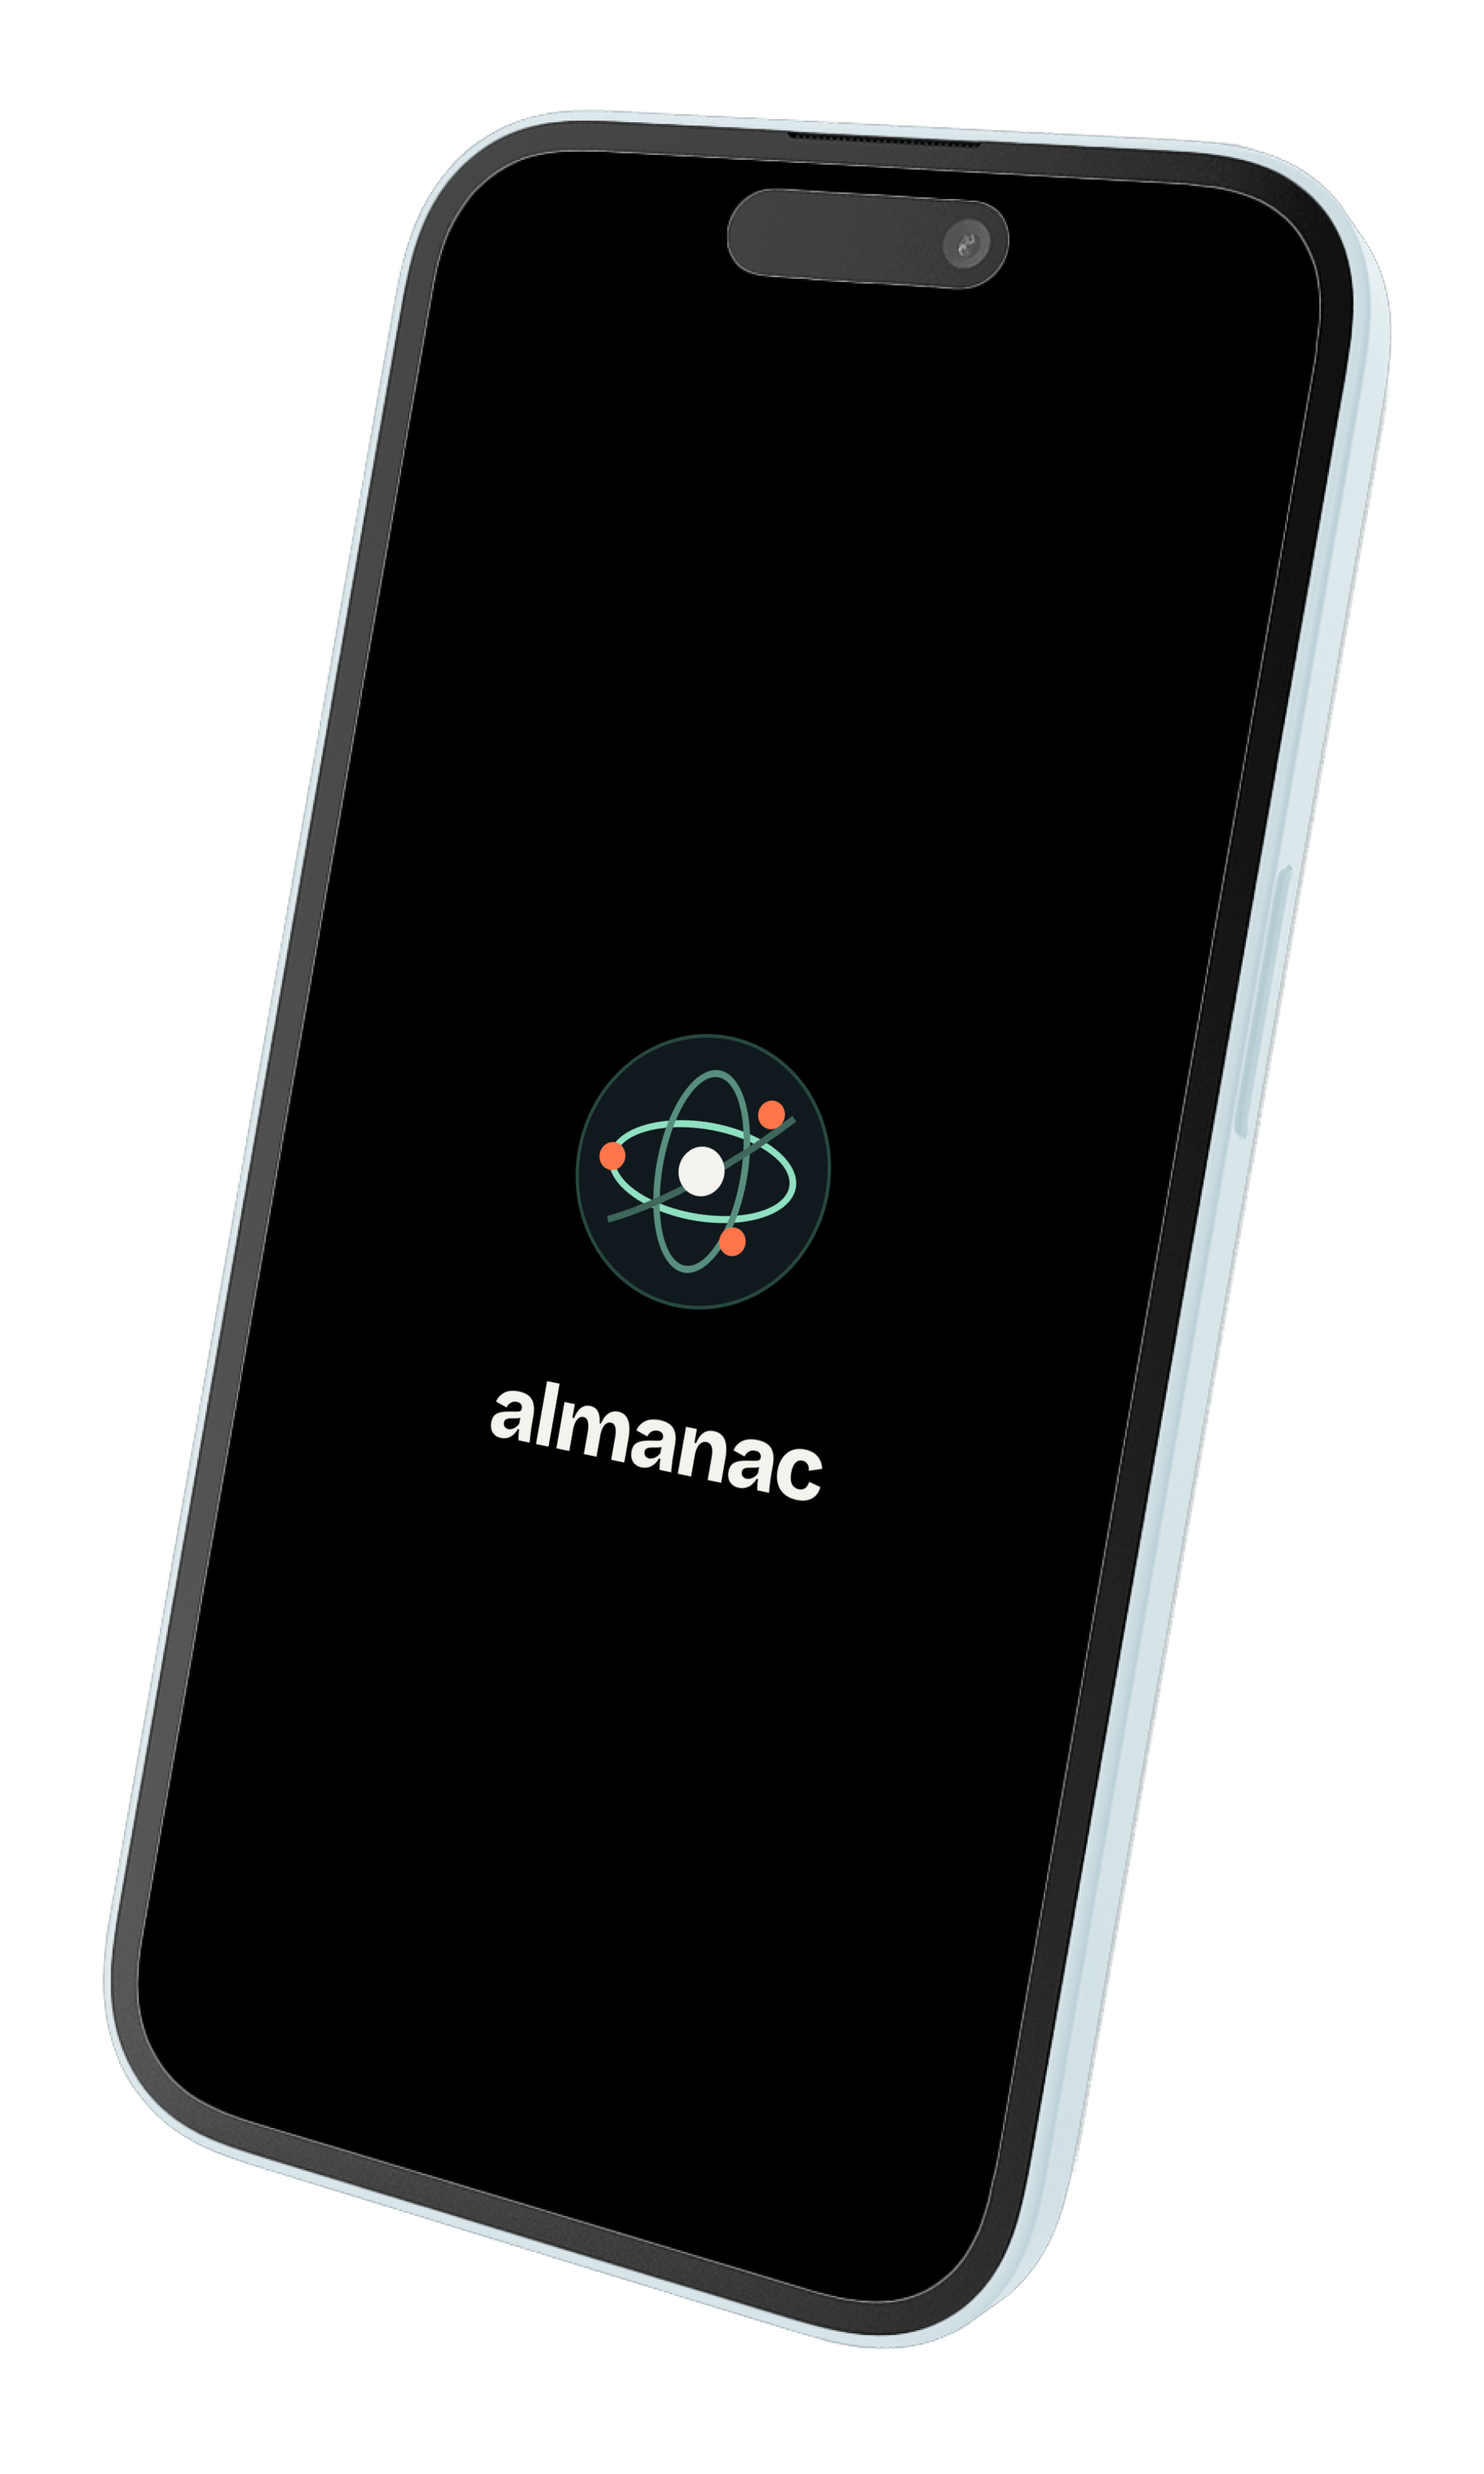
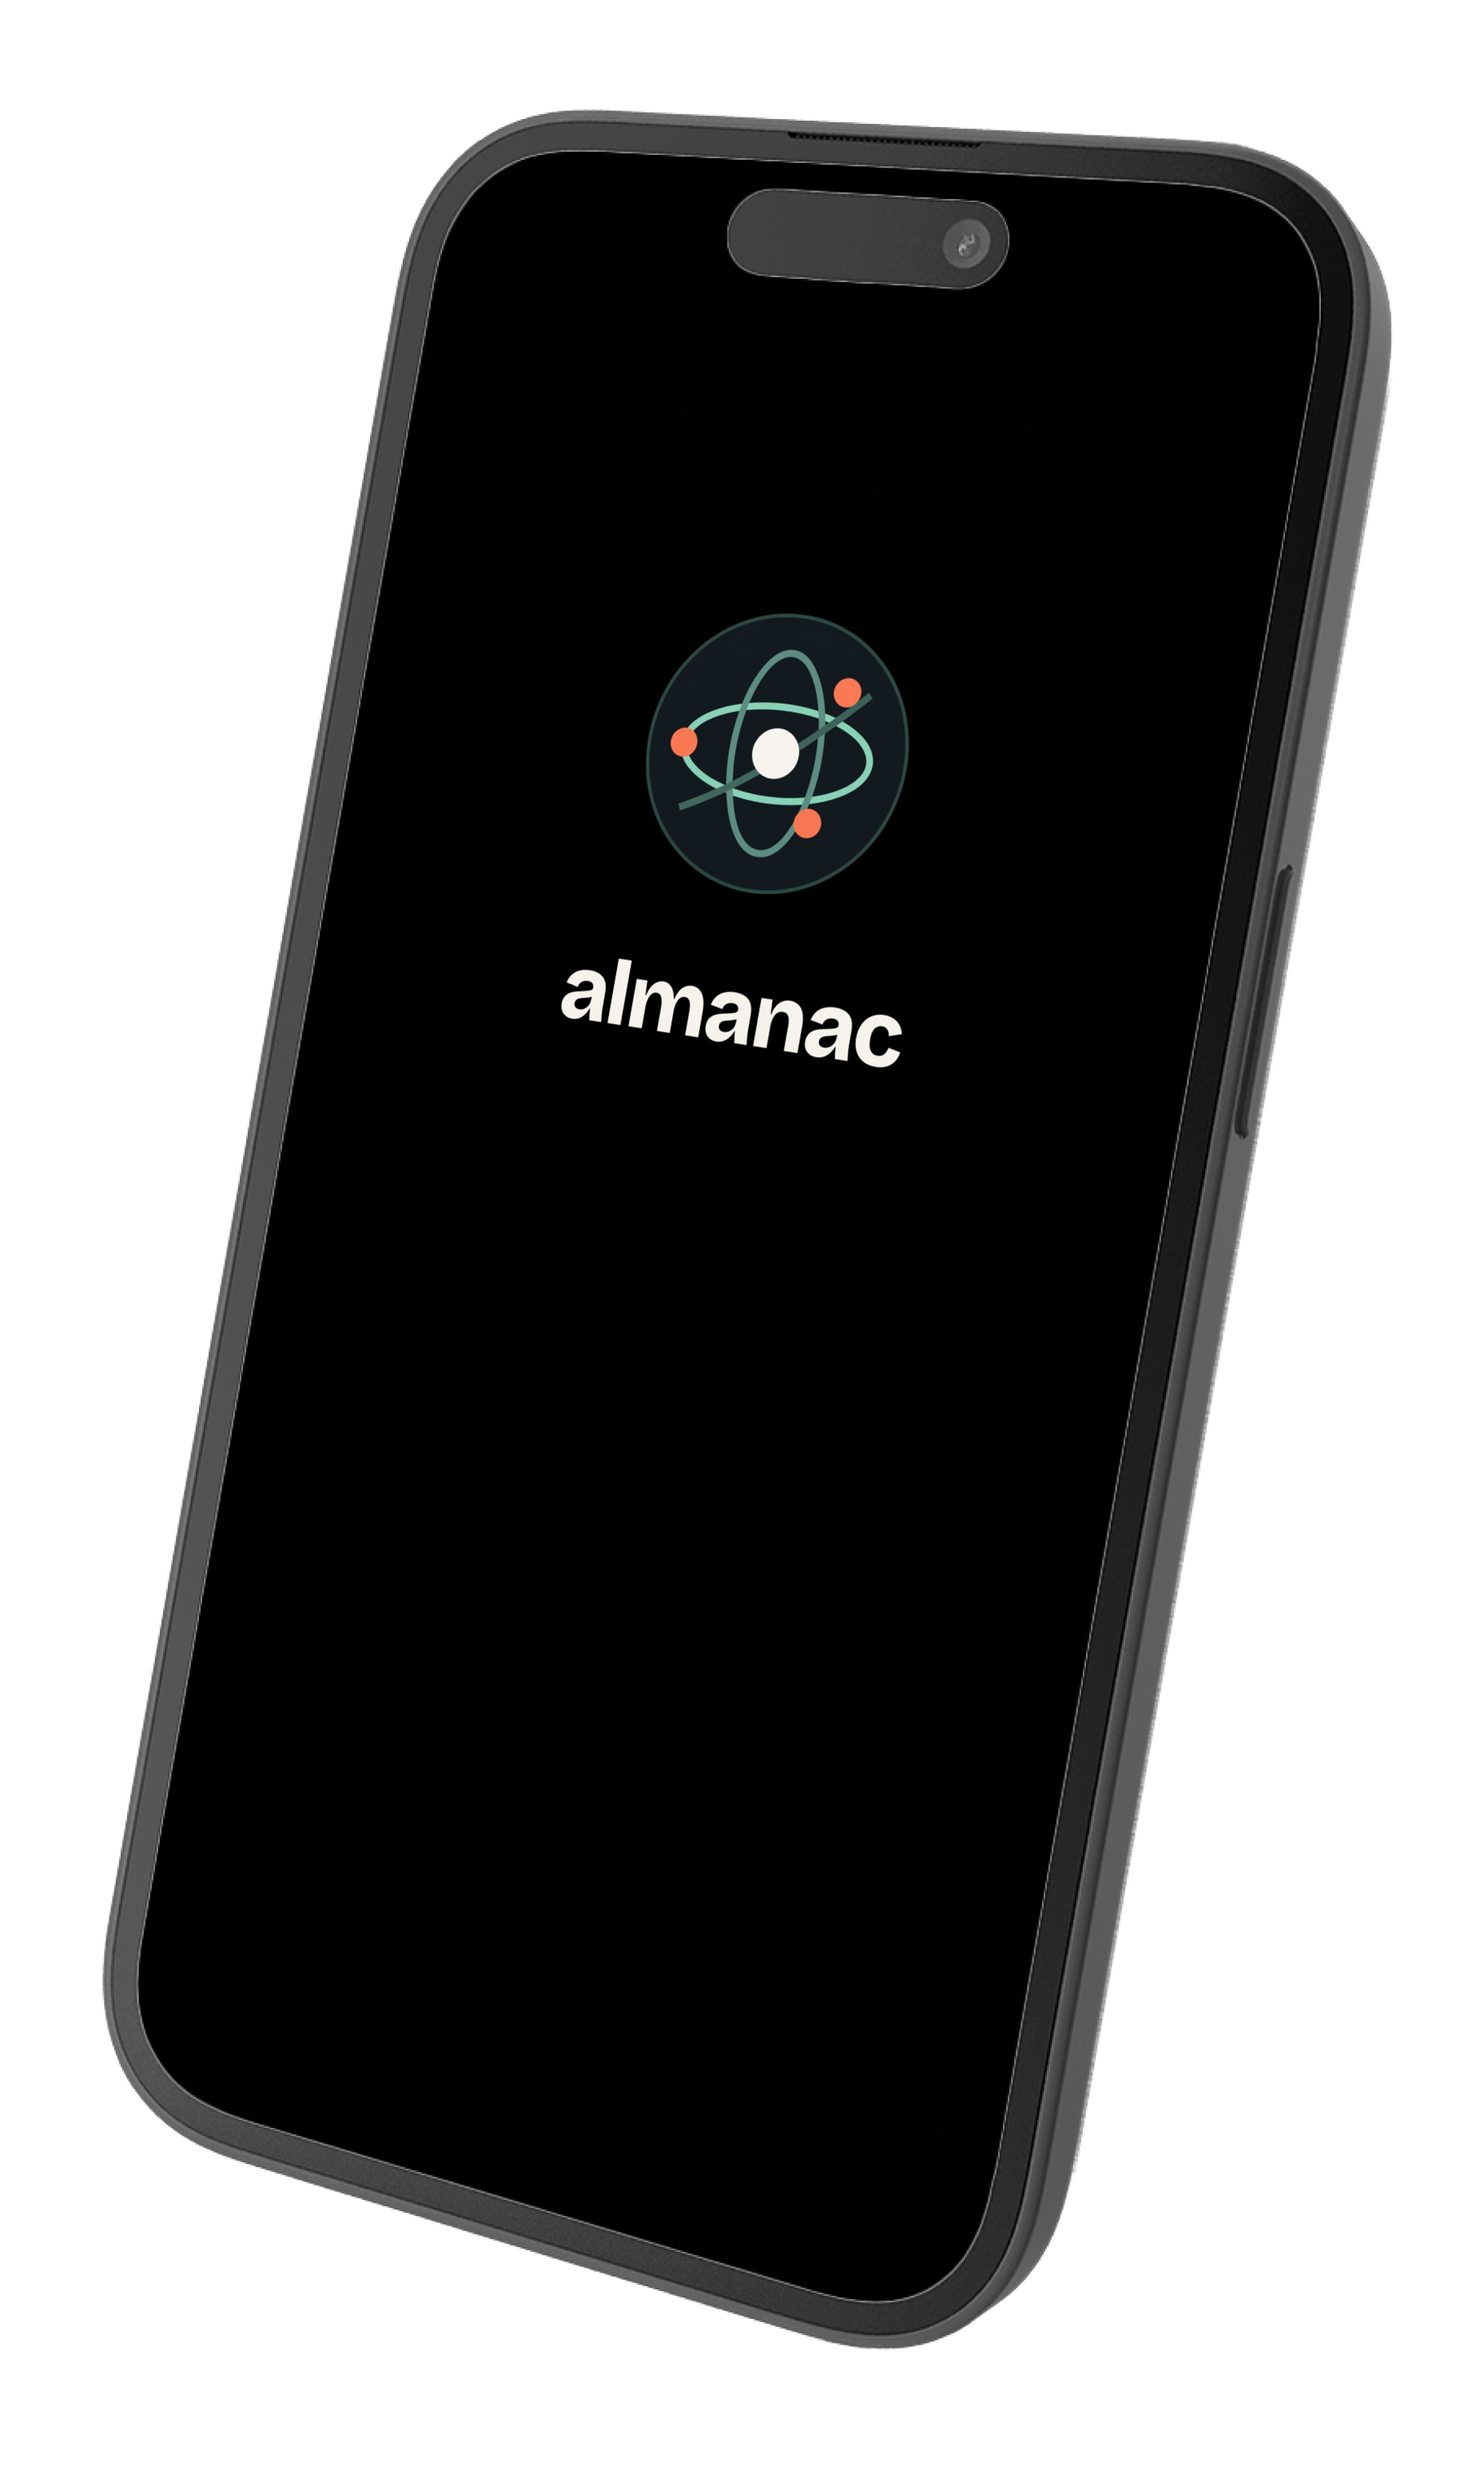
Replace Almanac mockup and keep phone top in frame

diff --git a/src/app/globals.css b/src/app/globals.css
@@ -589,5 +589,5 @@ button, a { -webkit-tap-highlight-color: transparent; }
 .moments-intro h2 { margin-top: 0; }
 .moments-intro .shelf-controls { flex-shrink: 0; margin: 0; }
 .project-image-almanac { aspect-ratio: 16 / 10; margin: 10px 10px 0; padding: 0; background: radial-gradient(ellipse at 50% 100%, #82ae9d 0%, #45665e 48%, #1b302d 100%); }
-.project-image-almanac img { position: absolute; width: 60%; height: auto; aspect-ratio: auto; max-width: none; left: 20%; top: -10%; object-fit: contain; filter: drop-shadow(14px 16px 15px #10262270); }
+.project-image-almanac img { position: absolute; width: 60%; height: auto; aspect-ratio: auto; max-width: none; left: 20%; top: 1%; object-fit: contain; filter: drop-shadow(14px 16px 15px #10262270); }
 @media (max-width: 599px) { .moments-intro { gap: 12px; } .moments-intro h2 { font-size: 30px; } }
